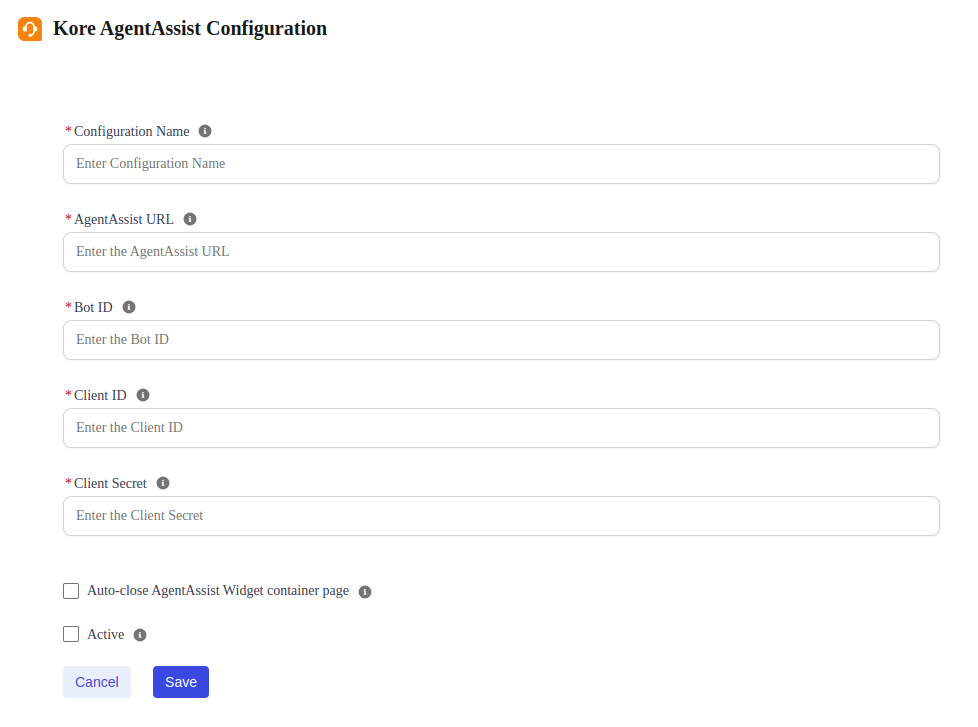
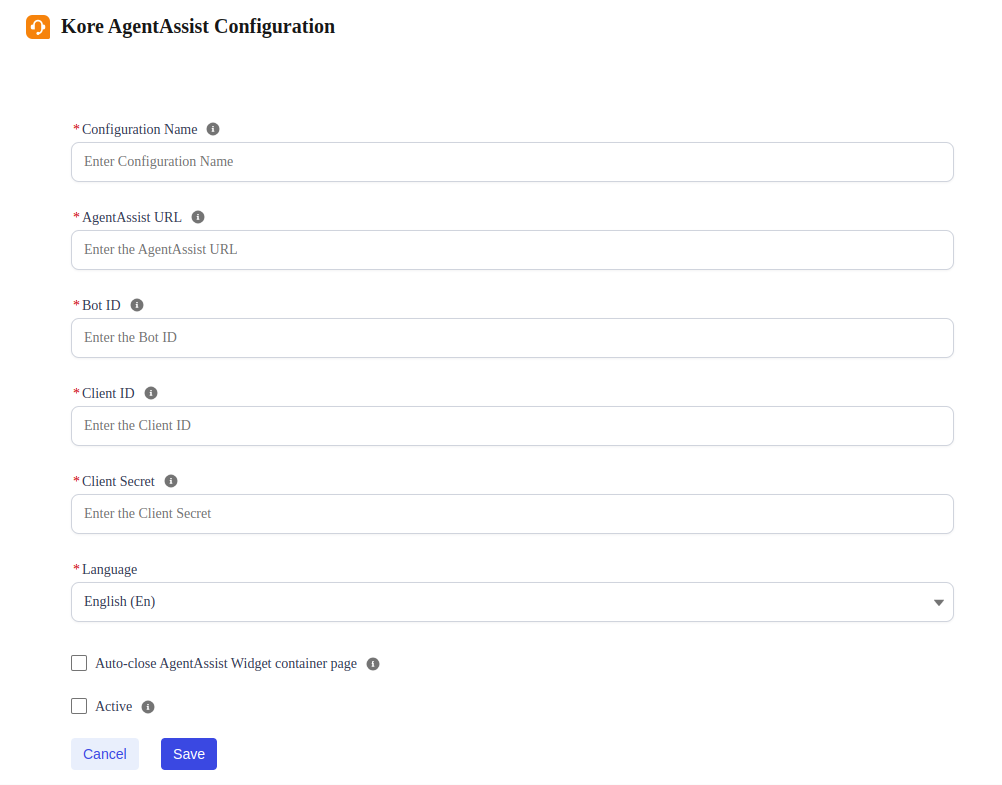
updated based on v11.10.0 release

Changed region(s): [[0.0613, 0.1513, 0.3988, 0.9684], [0.0, 0.0, 0.3374, 0.0605], [0.1534, 0.9078, 0.2147, 0.9986]]

diff --git a/docs/xo/agentai/integration/salesforce-nice-cx-cti/kore-agent-ai-with-salesforce-nice-cx-cti.md b/docs/xo/agentai/integration/salesforce-nice-cx-cti/kore-agent-ai-with-salesforce-nice-cx-cti.md
@@ -418,10 +418,10 @@ This app will be used in studio script.
 <img src="../images/kore-agentassist-configuration-15.png" alt="kore-agentassist-configuration" title="kore-agentassist-configuration" style="border: 1px solid gray; zoom:80%;">
 
 3. Click **New** from the right-top corner of the page.
-4. Enter the required details. Note that you can fetch the **AgentAssist URL**, **Bot ID**, **Client ID**, and **Client Secret** from the **[Agent AI](https://agentassist.kore.ai){:target="_blank"}** configuration portal.  
-   <img src="../images/configuration-details-16.png" alt="free text" title="free text" style="border: 1px solid gray; zoom:80%;">  
-
-      <img src="../images/configurationp-portal-17.png" alt="configurationp-portal" title="configurationp-portal" style="border: 1px solid gray; zoom:80%;">
+4. Enter the required details. Note that you can fetch the **AgentAssist URL**, **Bot ID**, **Client ID**, and **Client Secret** details from the **[Agent AI](https://agentassist.kore.ai){:target="_blank"}** configuration portal.  
+<img src="../images/configurationp-portal-17.png" alt="configurationp-portal" title="configurationp-portal" style="border: 1px solid gray; zoom:80%;"> 
+ * Select a language in the **Language** dropdown list. The selected language corresponds to the language configured in the bot.  
+ <img src="../images/configuration-details-16.png" alt="free text" title="free text" style="border: 1px solid gray; zoom:80%;">
 5. Select **Active** and click **Save**.
 
 ### Configure NICE CTI Data in Salesforce
